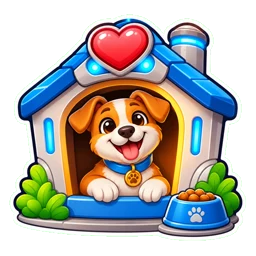
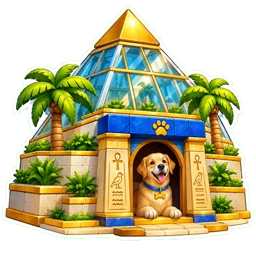
/app: heroglyf s obsahom dekodéra z /onepage (Hektorove hodnoty + 4 oblasti), slučka appiek nad funkciami, odrážky v jednej karte na hover/ťuk, ikonky papyrus + Merch/Útulky z kola 2

diff --git a/src/pages/AppWeb.tsx b/src/pages/AppWeb.tsx
@@ -17,17 +17,18 @@
  *    (`?nakres` NIE — ten v appke otvára editor nákresov a stránku prekryje.)
  *  · Čísla psy/ľudia/krajiny sú živé z `get-pack-stats`.
  */
-import { useEffect, useMemo, useRef, useState, type CSSProperties, type ReactNode } from 'react';
+import { Fragment, useEffect, useMemo, useRef, useState, type CSSProperties, type ReactNode } from 'react';
 import { Seo } from '@/components/Seo';
 import { HandPaw, HandForward, HandHeart, HandClipboard, HandShare, HandStar } from '@/components/pack/HandIcons';
 import { STAGE_CSS } from '@/components/pack/packTheme';
 import { VAULT_COUNTS } from '@/components/pack/vault/vaultRegister';
 import { GodsGridLab } from '@/components/gods/GodsGridLab';
-import { useLang } from '@/i18n/LanguageContext';
+import { useLang, useT } from '@/i18n/LanguageContext';
 import { getPackStats } from '@/lib/sharedFetch';
 import { COPY, COPY3, NOTES, type Lang2 } from './appWeb/copy';
 import { IgMock, IgIcon } from './appWeb/IgMock';
 import { AlbaCount, AlbaTrio, GlyphZones } from './appWeb/AlbaGlyph';
+import { APP_CHIPS, APPS_TYPE_CSS } from '@/components/lab/filmAppsType';
 import './appWeb/appWeb.css';
 
 const A = '/web-app';
@@ -176,6 +177,7 @@ function LivePlanet() {
 
 export default function AppWeb() {
   const { lang, setLang } = useLang();
+  const t = useT();
   const L: Lang2 = lang === 'sk' ? 'sk' : 'en';
   const c = (k: string) => COPY3[k]?.[L] ?? COPY[k]?.[L] ?? '';
   const qs = useMemo(() => new URLSearchParams(typeof window !== 'undefined' ? window.location.search : ''), []);
@@ -185,7 +187,8 @@ export default function AppWeb() {
   /* pozadie — varianty v štýle MysteryHike (matné sklo, perleť, heroglyfy) */
   const [bg, setBg] = useState(() => (/^[1-4]$/.test(qs.get('bg') ?? '') ? qs.get('bg')! : '1'));
   /* dlaždica pod ikonkami funkcií — skúšame lapis aj papyrus (Matej 6. 11.) */
-  const [tile, setTile] = useState(() => (qs.get('tile') === 'papyrus' ? 'papyrus' : 'lapis'));
+  const [openFeat, setOpenFeat] = useState<number | null>(null);
+  const [tile, setTile] = useState(() => (qs.get('tile') === 'lapis' ? 'lapis' : 'papyrus'));
 
   /* živé čísla */
   const [stats, setStats] = useState<{ dogs: number; people: number; countries: number } | null>(null);
@@ -350,7 +353,7 @@ export default function AppWeb() {
           <Rv><AlbaTrio /></Rv>
           <Rv><AlbaCount c={c} /></Rv>
           <Rv className="alba-sec gz-sec">
-            <GlyphZones c={c} />
+            <GlyphZones />
           </Rv>
         </div>
       </section>
@@ -359,12 +362,37 @@ export default function AppWeb() {
       <section id="features">
         <div className="wrap">
           <Rv className="sec-h"><p className="eye">{c('e_feat')}</p><h2>{c('h_feat_a')} <span className="blk">{c('h_feat_b')}</span><span className="h2b">{c('h_feat2')}</span></h2></Rv>
-          {/* karty B — ikonka na dlaždici trčí nad kartou, bez animácie (Matej 6. 11.); dlaždica lapis / papyrus = `?tile=` */}
+          {/* karty B — ikonka na dlaždici trčí nad kartou, bez animácie (Matej 6. 11.); dlaždica papyrus (výber Mateja 6. 11.) / lapis = `?tile=lapis` */}
+          {/* slučka appiek ako na /onepage (FilmApps) — jeden zdroj APP_CHIPS + APPS_TYPE_CSS, zmena pohne oboma */}
+          <style>{APPS_TYPE_CSS}</style>
+          <div className="apps-loop">
+            <p className="op-apps-lead">{t('onepage.apps.chips.lead')}</p>
+            <div className="op-apps-marq">
+              <ul className="op-apps-chips">
+                {[0, 1].map(copy => (
+                  <Fragment key={copy}>
+                    {APP_CHIPS.map(ch => (
+                      <li key={ch.name} className={copy ? 'op-apps-clone' : undefined} aria-hidden={copy ? true : undefined}>
+                        {ch.icon && <i style={{ ['--m' as string]: `url(/icons/brands/${ch.icon}.svg)` }} aria-hidden />}
+                        {ch.name}
+                      </li>
+                    ))}
+                    <li className={`op-apps-chip-more${copy ? ' op-apps-clone' : ''}`} aria-hidden={copy ? true : undefined}>{t('onepage.apps.chips.more')}</li>
+                  </Fragment>
+                ))}
+              </ul>
+            </div>
+            <p className="op-apps-lead op-apps-tail">{t('onepage.apps.chips.tail')}</p>
+          </div>
+          {/* odrážky = hover (PC) / ťuk (mobil); rozbalí sa LEN tá karta — panel leží nad radom pod ňou, rad sa nenaťahuje */}
           <div className="fgrid" data-tile={tile}>
             {FEATS.map((f, i) => (
-              <Rv key={f.p} d={i % 4} className={`fcard pk-stage ${f.cls ?? ''}`}>
-                <div className="fti"><img src={`${A}/ikony/${f.ic}.webp`} alt="" loading="lazy" /></div>
-                <h3>{f.h[L]}</h3><p>{c(f.p)}</p>
+              <Rv key={f.p} d={i % 4} className={`fcard pk-stage ${f.cls ?? ''}${openFeat === i ? ' open' : ''}`}>
+                <button type="button" className="fhit" aria-expanded={openFeat === i} onClick={() => setOpenFeat(openFeat === i ? null : i)}>
+                  <span className="fti"><img src={`${A}/ikony/${f.ic}.webp`} alt="" loading="lazy" /></span>
+                  <h3>{f.h[L]}</h3><p>{c(f.p)}</p>
+                </button>
+                <ul className="fmore">{f.li.map(([tx, soon], k) => <li key={k} className={soon ? 'soon' : ''}>{tx[L]}{soon && <em>{c('soon')}</em>}</li>)}</ul>
               </Rv>
             ))}
           </div>

diff --git a/src/pages/appWeb/appWeb.css b/src/pages/appWeb/appWeb.css
@@ -621,16 +621,27 @@ body:has(.aw){overflow:auto!important;overflow-x:hidden!important}
 /* veľký heroglyf — zložený ako na /onepage, priamo na papyruse; na mobile zvislý */
 .aw .gz{max-width:900px;margin:0 auto}
 .aw .gz-svg{display:block;width:100%;height:auto;overflow:visible}
-.aw .gz.v{display:grid;grid-template-columns:minmax(0,150px) 1fr;gap:var(--s-lg);align-items:center;max-width:420px}
-.aw .gz.v .gz-pill{margin:0;align-self:center}
+.aw .gz.v{display:grid;grid-template-columns:minmax(0,140px) 1fr;gap:var(--s-lg);align-items:center;max-width:440px}
+.aw .gz.v .gz-pill{margin:0}
 .aw .gz-z{cursor:pointer;outline:none}
 .aw .gz-hl{fill:transparent;stroke:transparent;stroke-width:40;transition:fill .15s,stroke .15s}
 .aw .gz.v .gz-hl{stroke-width:6}
 .aw .g-basics{--gc:#8C2F26}.aw .g-breed{--gc:#16307A}.aw .g-char{--gc:#7A2FBF}.aw .g-own{--gc:#3D7A4E}
 .aw .gz-z:hover .gz-hl,.aw .gz-z.on .gz-hl,.aw .gz-z:focus-visible .gz-hl{fill:color-mix(in srgb,var(--gc) 18%,transparent);stroke:var(--gc)}
+.aw .gz-z image{transition:filter .2s}
+.aw .gz-z.on image{filter:drop-shadow(0 0 30px var(--gc))}
+.aw .gz.v .gz-z.on image{filter:drop-shadow(0 0 6px var(--gc))}
+/* štyri oblasti ako kóty na /onepage — aktívna sa rozsvieti farbou oblasti */
+.aw .gz-keys{list-style:none;margin:var(--s-lg) auto 0;padding:0;display:grid;grid-template-columns:repeat(4,1fr);gap:var(--s-sm);max-width:900px}
+.aw .gz-keys li{border-top:3px solid var(--gc);padding:var(--s-sm) var(--s-xs) 0;text-align:center;opacity:.55;transition:opacity .2s}
+.aw .gz:not(.has) .gz-keys li,.aw .gz-keys li.on{opacity:1}
+.aw .gz-keys b{display:block;font:600 var(--t-label)/1.2 var(--font-ui);letter-spacing:.14em;text-transform:uppercase;color:var(--gc)}
+.aw .gz-keys span{display:block;font:400 var(--t-label)/1.35 var(--font-ui);color:var(--ink-soft);margin-top:2px}
+.aw .gz.v .gz-keys{grid-template-columns:1fr 1fr;margin-top:var(--s-md)}
 .aw .gz-pill{margin:var(--s-xl) auto 0;max-width:640px;min-height:112px;display:flex;flex-direction:column;align-items:center;justify-content:center;gap:var(--s-xs);padding:var(--s-lg) var(--s-xl);border-radius:var(--r-tile);border:1px solid var(--hairline);background:color-mix(in srgb,var(--gc,#8a5a14) 8%,transparent);color:var(--ink-body);font:400 var(--t-h2)/1.4 var(--font-ui);text-align:center}
 .aw .gz-pill i{font:500 var(--t-label)/1.4 var(--font-ui);font-style:normal;letter-spacing:.22em;text-transform:uppercase;color:var(--gc,var(--gold-ink))}
 .aw .gz-pill b{font:500 var(--t-h1)/1.2 var(--font-title);color:var(--gc,var(--ink-strong))}
+.aw .gz-pill span{color:var(--ink-soft)}
 @media(max-width:767px){.aw .gz-pill{font-size:var(--t-lead);padding:var(--s-md);min-height:0}.aw .gz-pill b{font-size:var(--t-h2)}}
 
 /* odsek po vetách — každá veta vlastný riadok na PC (Matej 6. 11.: „trochu uprac tie textingy“) */
@@ -663,3 +674,20 @@ body:has(.aw){overflow:auto!important;overflow-x:hidden!important}
 .aw .fcard.soon .fti{border-style:dashed}
 .aw .fcard.soon .pk-pill--locked{font:600 var(--t-micro)/1 var(--font-ui);letter-spacing:.14em;padding:4px 10px;margin-top:var(--s-xs)}
 @media(max-width:767px){.aw .fgrid{gap:56px var(--s-md)}.aw .fcard{padding:60px var(--s-md) var(--s-lg)}.aw .fti{width:92px;height:92px;top:-40px;border-radius:22px}.aw .fcard h3{font-size:var(--t-h2)}.aw .fcard p{font-size:var(--t-label)}}
+
+/* slučka appiek nad funkciami (APPS_TYPE_CSS z /onepage) */
+.aw .apps-loop{text-align:center;margin:0 0 var(--s-xl)}
+/* karta = jedno tlačidlo; odrážky v paneli POD kartou, absolútne — rozbalí sa len jedna karta, rad stojí (Matej 6. 11.) */
+.aw .fcard{z-index:1}
+.aw .fhit{all:unset;box-sizing:border-box;display:flex;flex-direction:column;align-items:center;gap:var(--s-sm);width:100%;cursor:pointer;-webkit-tap-highlight-color:transparent}
+.aw .fhit:focus-visible{outline:2px solid var(--lapis-edge);outline-offset:6px;border-radius:var(--r-field)}
+.aw .fmore{position:absolute;left:-1px;right:-1px;top:calc(100% - 14px);margin:0;padding:var(--s-sm) var(--s-lg) var(--s-lg);list-style:none;display:grid;gap:6px;text-align:left;
+  background:#F7EBCF;border:1px solid var(--hairline);border-top:0;border-radius:0 0 var(--r-card) var(--r-card);box-shadow:0 18px 30px -18px rgba(26,18,6,.45);
+  opacity:0;visibility:hidden;transition:opacity .15s,visibility .15s}
+.aw .fmore li{position:relative;padding-left:16px;font:400 var(--t-body)/1.35 var(--font-ui);color:var(--ink-body)}
+.aw .fmore li::before{content:'';position:absolute;left:0;top:.5em;width:6px;height:6px;border-radius:50%;background:var(--lapis-edge)}
+.aw .fmore li.soon{color:var(--ink-soft)}.aw .fmore li.soon::before{background:transparent;border:1px dashed var(--card-edge)}
+.aw .fmore li em{font:600 var(--t-micro)/1 var(--font-ui);font-style:normal;letter-spacing:.1em;text-transform:uppercase;color:var(--gold-ink);margin-left:6px}
+.aw .fcard.open{z-index:5;border-bottom-left-radius:0;border-bottom-right-radius:0}
+.aw .fcard.open .fmore{opacity:1;visibility:visible}
+@media(hover:hover){.aw .fcard:has(.fmore li):hover{z-index:5;border-bottom-left-radius:0;border-bottom-right-radius:0}.aw .fcard:hover .fmore{opacity:1;visibility:visible}}

diff --git a/src/pages/appWeb/AlbaGlyph.tsx b/src/pages/appWeb/AlbaGlyph.tsx
@@ -3,8 +3,11 @@
  *  rám + kartuša + 12 dielov `/heroglyph/dogtrix/hek/*.svg` (Hektor, pack #1), na PC vodorovný, na mobile
  *  ZVISLÝ (Matej 6. 11.: „na mobile by mohol byť vertikálny… tak ako máme aktuálne na webe“). Geometria
  *  odpísaná z OnePage.tsx `DGX_SLOTS` / `DGX_SLOTS_V` / `DGX_D_*` (sústavy HeroglyphFrame a VerticalHeroglyphFrame).
- *  Texty COPY3 `gz_*`. */
+ *  Obsah bubliny = ten istý ako dekodér na /onepage: Hektorove SKUTOČNÉ hodnoty zo slovníka
+ *  `onepage.dgx.bub.<slot>.label|value|glyph` (čo je to za údaj · hodnota · ako sa kresba volá) a štyri
+ *  oblasti `onepage.dgx.k.1–4` (Pôvod · Plemeno · Povaha · Ty) — Matej 6. 11.: „daj logiku toho, čo už máme hotové aj obsahovo“. */
 import { useEffect, useState, type CSSProperties, type PointerEvent } from 'react';
+import { useT } from '@/i18n/LanguageContext';
 
 const ALBAS = [
   { n: 43,
@@ -108,19 +111,23 @@ const useVertical = () => {
   return v;
 };
 
-export function GlyphZones({ c }: { c: (k: string) => string }) {
+/** oblasti v poradí `onepage.dgx.k.1–4` */
+const GROUPS = ['basics', 'breed', 'char', 'own'] as const;
+
+export function GlyphZones() {
+  const t = useT();
   const [on, setOn] = useState<string | null>(null);
   const vert = useVertical();
   const SL = vert ? SLOTS_V : SLOTS;
   const s = SL.find(x => x.k === on);
-  const grp = s ? (s.g === 'own' ? 'gb_own' : 'gb_dog') : null;
+  const b = s ? `onepage.dgx.bub.${s.k}` : '';
   return (
-    <div className={`gz${vert ? ' v' : ''}`}>
+    <div className={`gz${vert ? ' v' : ''}${s ? ` has g-${s.g}` : ''}`}>
       <svg className="gz-svg" viewBox={vert ? VB_V : VB} onPointerLeave={e => { if (e.pointerType === 'mouse') setOn(null); }} role="img" aria-label="heroglyph">
         <path d={vert ? D_FRAME_V : D_FRAME} fill="#2a1608" />
         <path d={vert ? D_CART_V : D_CART} fill="#2a1608" />
         {SL.map(z => (
-          <g key={z.k} className={`gz-z g-${z.g}${on === z.k ? ' on' : ''}`} tabIndex={0} role="button" aria-label={c(`gz_${z.k}`)}
+          <g key={z.k} className={`gz-z g-${z.g}${on === z.k ? ' on' : ''}`} tabIndex={0} role="button" aria-label={t(`onepage.dgx.bub.${z.k}.label`)}
             onPointerEnter={e => { if (e.pointerType === 'mouse') setOn(z.k); }}
             onClick={() => setOn(on === z.k ? null : z.k)}
             onKeyDown={e => { if (e.key === 'Enter' || e.key === ' ') { e.preventDefault(); setOn(on === z.k ? null : z.k); } }}>
@@ -129,8 +136,16 @@ export function GlyphZones({ c }: { c: (k: string) => string }) {
           </g>
         ))}
       </svg>
-      <div className={`gz-pill${s ? ` g-${s.g}` : ''}`} aria-live="polite">
-        {s ? <><i>{c(grp!)}</i><b>{c(`gz_${s.k}`)}</b><span>{c(`gz_${s.k}d`)}</span></> : <span>{c('gz_hint')}</span>}
+      <div className="gz-side">
+        <div className={`gz-pill${s ? ` g-${s.g}` : ''}`} aria-live="polite">
+          {s ? <><i>{t(`${b}.label`)}</i><b>{t(`${b}.value`)}</b><span>{t(`${b}.glyph`)}</span></>
+            : <span>{t(vert ? 'onepage.dgx.hint.touch' : 'onepage.dgx.hint.hover')}</span>}
+        </div>
+        <ul className="gz-keys">
+          {GROUPS.map((g, i) => (
+            <li key={g} className={`g-${g}${s?.g === g ? ' on' : ''}`}><b>{t(`onepage.dgx.k.${i + 1}.name`)}</b><span>{t(`onepage.dgx.k.${i + 1}.desc`)}</span></li>
+          ))}
+        </ul>
       </div>
     </div>
   );

diff --git a/src/pages/appWeb/copy.ts b/src/pages/appWeb/copy.ts
@@ -657,33 +657,6 @@ export const COPY3: Record<string, Record<Lang2, string>> = {
  h_alba_a: { en: "Dog name isn't unique.", sk: 'Meno psa nie je unikát.' },
  h_alba_b: { en: 'HEROGLYPH', sk: 'HEROGLYF' },
  h_alba_c: { en: 'is!', sk: 'je!' },
- gb_dog: { en: 'The dog · big frame', sk: 'Pes · veľký rámik' },
- gb_own: { en: 'You · small frame', sk: 'Ty · malý rámik' },
- gz_hint: { en: 'Tap or hover a part of the frame and see what it says.', sk: 'Ťukni alebo prejdi myšou po časti rámika a uvidíš, čo hovorí.' },
- gz_dogGender: { en: 'Sex', sk: 'Pohlavie' },
- gz_dogGenderd: { en: 'Boy or girl, drawn as a symbol.', sk: 'Chlapec alebo dievča, nakreslené ako symbol.' },
- gz_colour: { en: 'Colour', sk: 'Farba' },
- gz_colourd: { en: 'The colour of the coat.', sk: 'Farba srsti.' },
- gz_fate: { en: 'Origin', sk: 'Pôvod' },
- gz_fated: { en: 'Where the dog came from: breeder, rescue, street.', sk: 'Odkiaľ pes prišiel: chovateľ, záchrana, ulica.' },
- gz_bloodline: { en: 'Bloodline', sk: 'Pokrvná línia' },
- gz_bloodlined: { en: 'Pedigree or a proud mutt.', sk: 'Rodokmeň alebo hrdý kríženec.' },
- gz_shape: { en: 'Silhouette', sk: 'Silueta' },
- gz_shaped: { en: 'The silhouette of the breed, picked from the patrons.', sk: 'Silueta plemena, vybraná z patrónov.' },
- gz_char1: { en: 'Character', sk: 'Povaha' },
- gz_char1d: { en: 'The first trait of character.', sk: 'Prvá povahová črta.' },
- gz_char2: { en: 'Character', sk: 'Povaha' },
- gz_char2d: { en: 'The second trait of character.', sk: 'Druhá povahová črta.' },
- gz_ownGender: { en: 'Your sex', sk: 'Tvoje pohlavie' },
- gz_ownGenderd: { en: 'The human sits inside the dog frame. The dog comes first.', sk: 'Človek sedí vo vnútri psieho rámika. Pes je na prvom mieste.' },
- gz_ownChinese: { en: 'Chinese sign', sk: 'Čínsky horoskop' },
- gz_ownChinesed: { en: 'Your sign from the Chinese zodiac.', sk: 'Tvoje znamenie z čínskeho horoskopu.' },
- gz_ownZodiac: { en: 'Zodiac', sk: 'Klasický horoskop' },
- gz_ownZodiacd: { en: 'Your classic zodiac sign.', sk: 'Tvoje znamenie z klasického horoskopu.' },
- gz_ownInitial: { en: 'Your initial', sk: 'Tvoje začiatočné písmeno' },
- gz_ownInitiald: { en: 'The first letter of your name.', sk: 'Prvé písmeno tvojho mena.' },
- gz_ownRank: { en: 'His number in your life', sk: 'Jeho číslo v tvojom živote' },
- gz_ownRankd: { en: 'Your 1st dog, 2nd dog, 3rd dog...', sk: 'Tvoj 1. pes, 2. pes, 3. pes...' },
  h_soul1: { en: 'Instagram is for people.', sk: 'Instagram je pre ľudí.' }, h_soul2: { en: 'for dog lovers.', sk: 'pre psíčkarov.' },
  l_soul: { en: 'A social network where every dog is a true original.\nAn app made to measure for everyday life with your dog!', sk: 'Psociálna sieť, kde je každý pes naozajstný unikát.\nAppka vytvorená na mieru pre každodenný život so psom!' },
  e_glyph: { en: 'Made for dogs. With a soul.', sk: 'Navrhnuté pre psov. S dušou.' },
